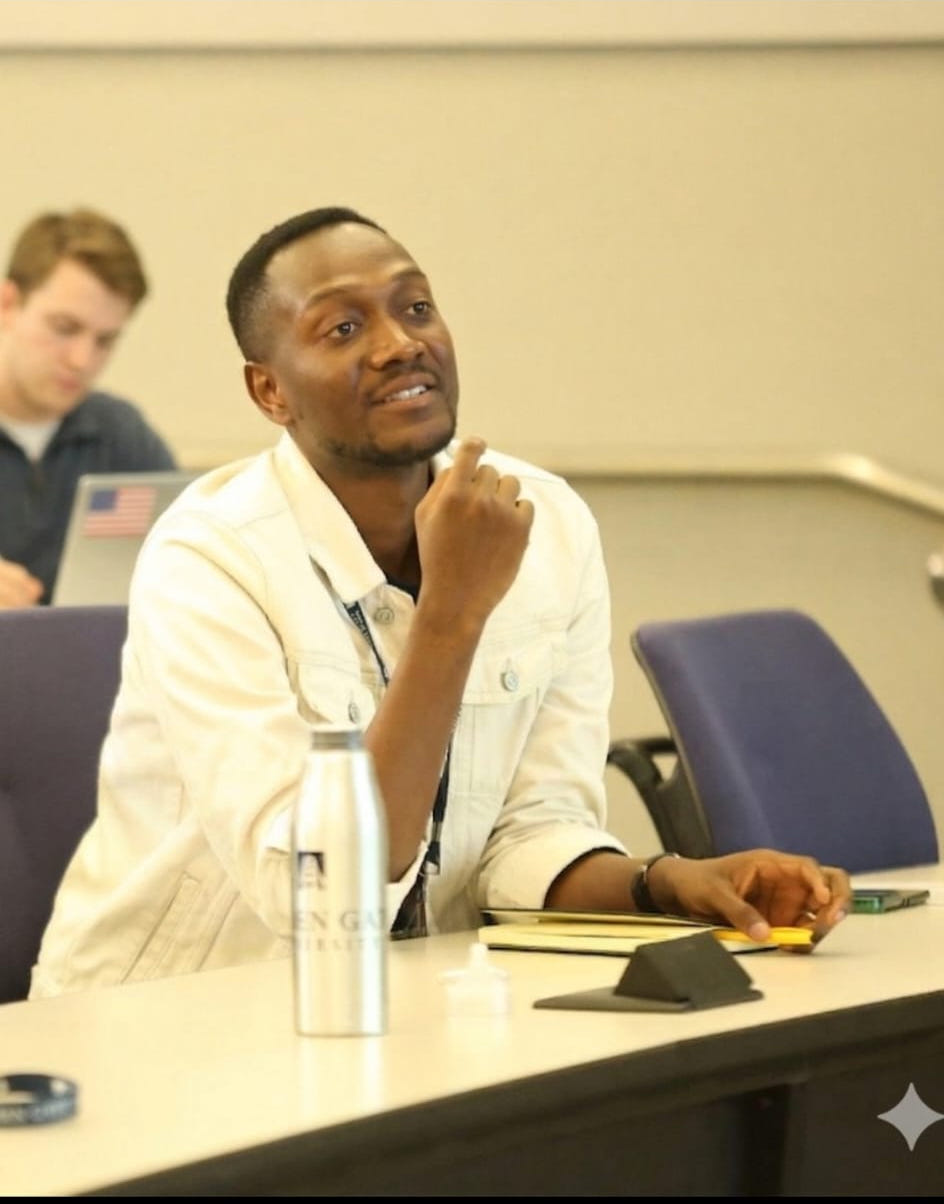
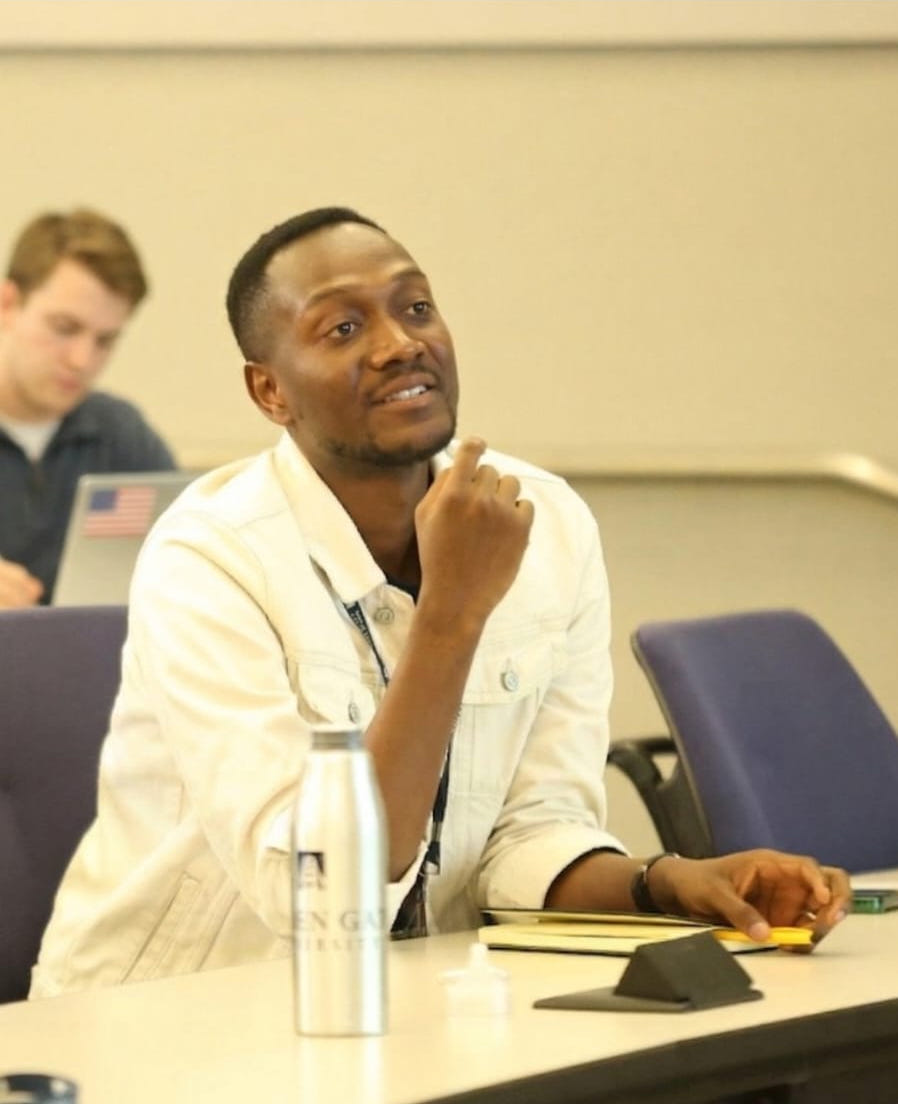
fix: resolved hero image issue

diff --git a/app/layout.tsx b/app/layout.tsx
@@ -1,19 +1,19 @@
 import type { Metadata } from 'next'
 import { Inter, Playfair_Display } from 'next/font/google'
-import { Analytics } from '@vercel/analytics/next'
 import './globals.css'
 
-const inter = Inter({ 
+const inter = Inter({
   subsets: ["latin"],
   variable: '--font-inter'
 });
 
-const playfair = Playfair_Display({ 
+const playfair = Playfair_Display({
   subsets: ["latin"],
   variable: '--font-playfair'
 });
 
 export const metadata: Metadata = {
+  metadataBase: new URL('https://destinyogwuche.com'),
   title: 'Destiny Innosuccess Ogwuche | Deep Tech Engineer, Entrepreneur & Venture Capital Fellow',
   description: 'Nigerian-born, Netherlands-based deep tech engineer, entrepreneur, venture capital fellow and doctoral researcher. Operating at the intersection of science, business and impact.',
   keywords: ['Deep Tech', 'Entrepreneur', 'Venture Capital', 'MedTech', 'AI', 'Africa Innovation', 'Netherlands', 'Ambitful AI'],
@@ -36,6 +36,28 @@ export const metadata: Metadata = {
     ],
     apple: '/apple-icon.png',
   },
+  openGraph: {
+    title: 'Destiny Innosuccess Ogwuche | Deep Tech Engineer, Entrepreneur & Venture Capital Fellow',
+    description: 'Nigerian-born, Netherlands-based deep tech engineer, entrepreneur, venture capital fellow and doctoral researcher.',
+    url: 'https://destinyogwuche.com',
+    siteName: 'Destiny Ogwuche',
+    images: [
+      {
+        url: '/apple-icon.png',
+        width: 180,
+        height: 180,
+        alt: 'Destiny Ogwuche Logo',
+      },
+    ],
+    locale: 'en_US',
+    type: 'website',
+  },
+  twitter: {
+    card: 'summary',
+    title: 'Destiny Innosuccess Ogwuche | Deep Tech Engineer, Entrepreneur & Venture Capital Fellow',
+    description: 'Nigerian-born, Netherlands-based deep tech engineer, entrepreneur, venture capital fellow and doctoral researcher.',
+    images: ['/apple-icon.png'],
+  },
 }
 
 import { ThemeProvider } from "@/components/theme-provider"
@@ -57,7 +79,7 @@ export default function RootLayout({
         >
           {children}
           <Toaster position="top-right" richColors />
-          <Analytics />
+
         </ThemeProvider>
       </body>
     </html>

diff --git a/components/home-hero.tsx b/components/home-hero.tsx
@@ -2,14 +2,15 @@
 
 import Link from "next/link"
 import Image from "next/image"
-import { Linkedin, Mail, MapPin, ArrowRight, MousePointer2 } from "lucide-react"
+import { Linkedin, Mail, MapPin, ArrowRight, } from "lucide-react"
 import goldenGateSeminar from "@/lib/images/golden_gate_seminar.png"
+import professionalPortrait from "@/lib/images/professional_portrait.jpg"
 
 export function HomeHero() {
   return (
     <section className="min-h-screen flex flex-col justify-center relative bg-background overflow-hidden">
       {/* Background Cinematic Image */}
-      <div className="absolute inset-0 z-0">
+      <div className="hidden md:block absolute inset-0 z-0">
         <div className="absolute inset-0">
           <Image
             src={goldenGateSeminar}
@@ -93,6 +94,17 @@ export function HomeHero() {
           </div>
 
 
+          <div className="w-full md:hidden order-1 flex justify-center mb-10">
+            <div className="relative w-full max-w-[380px] aspect-square rounded-3xl overflow-hidden border-4 border-background shadow-2xl">
+              <Image
+                src={professionalPortrait}
+                alt="Destiny Innosuccess Ogwuche"
+                fill
+                className="object-cover"
+                priority
+              />
+            </div>
+          </div>
         </div>
       </div>
 
